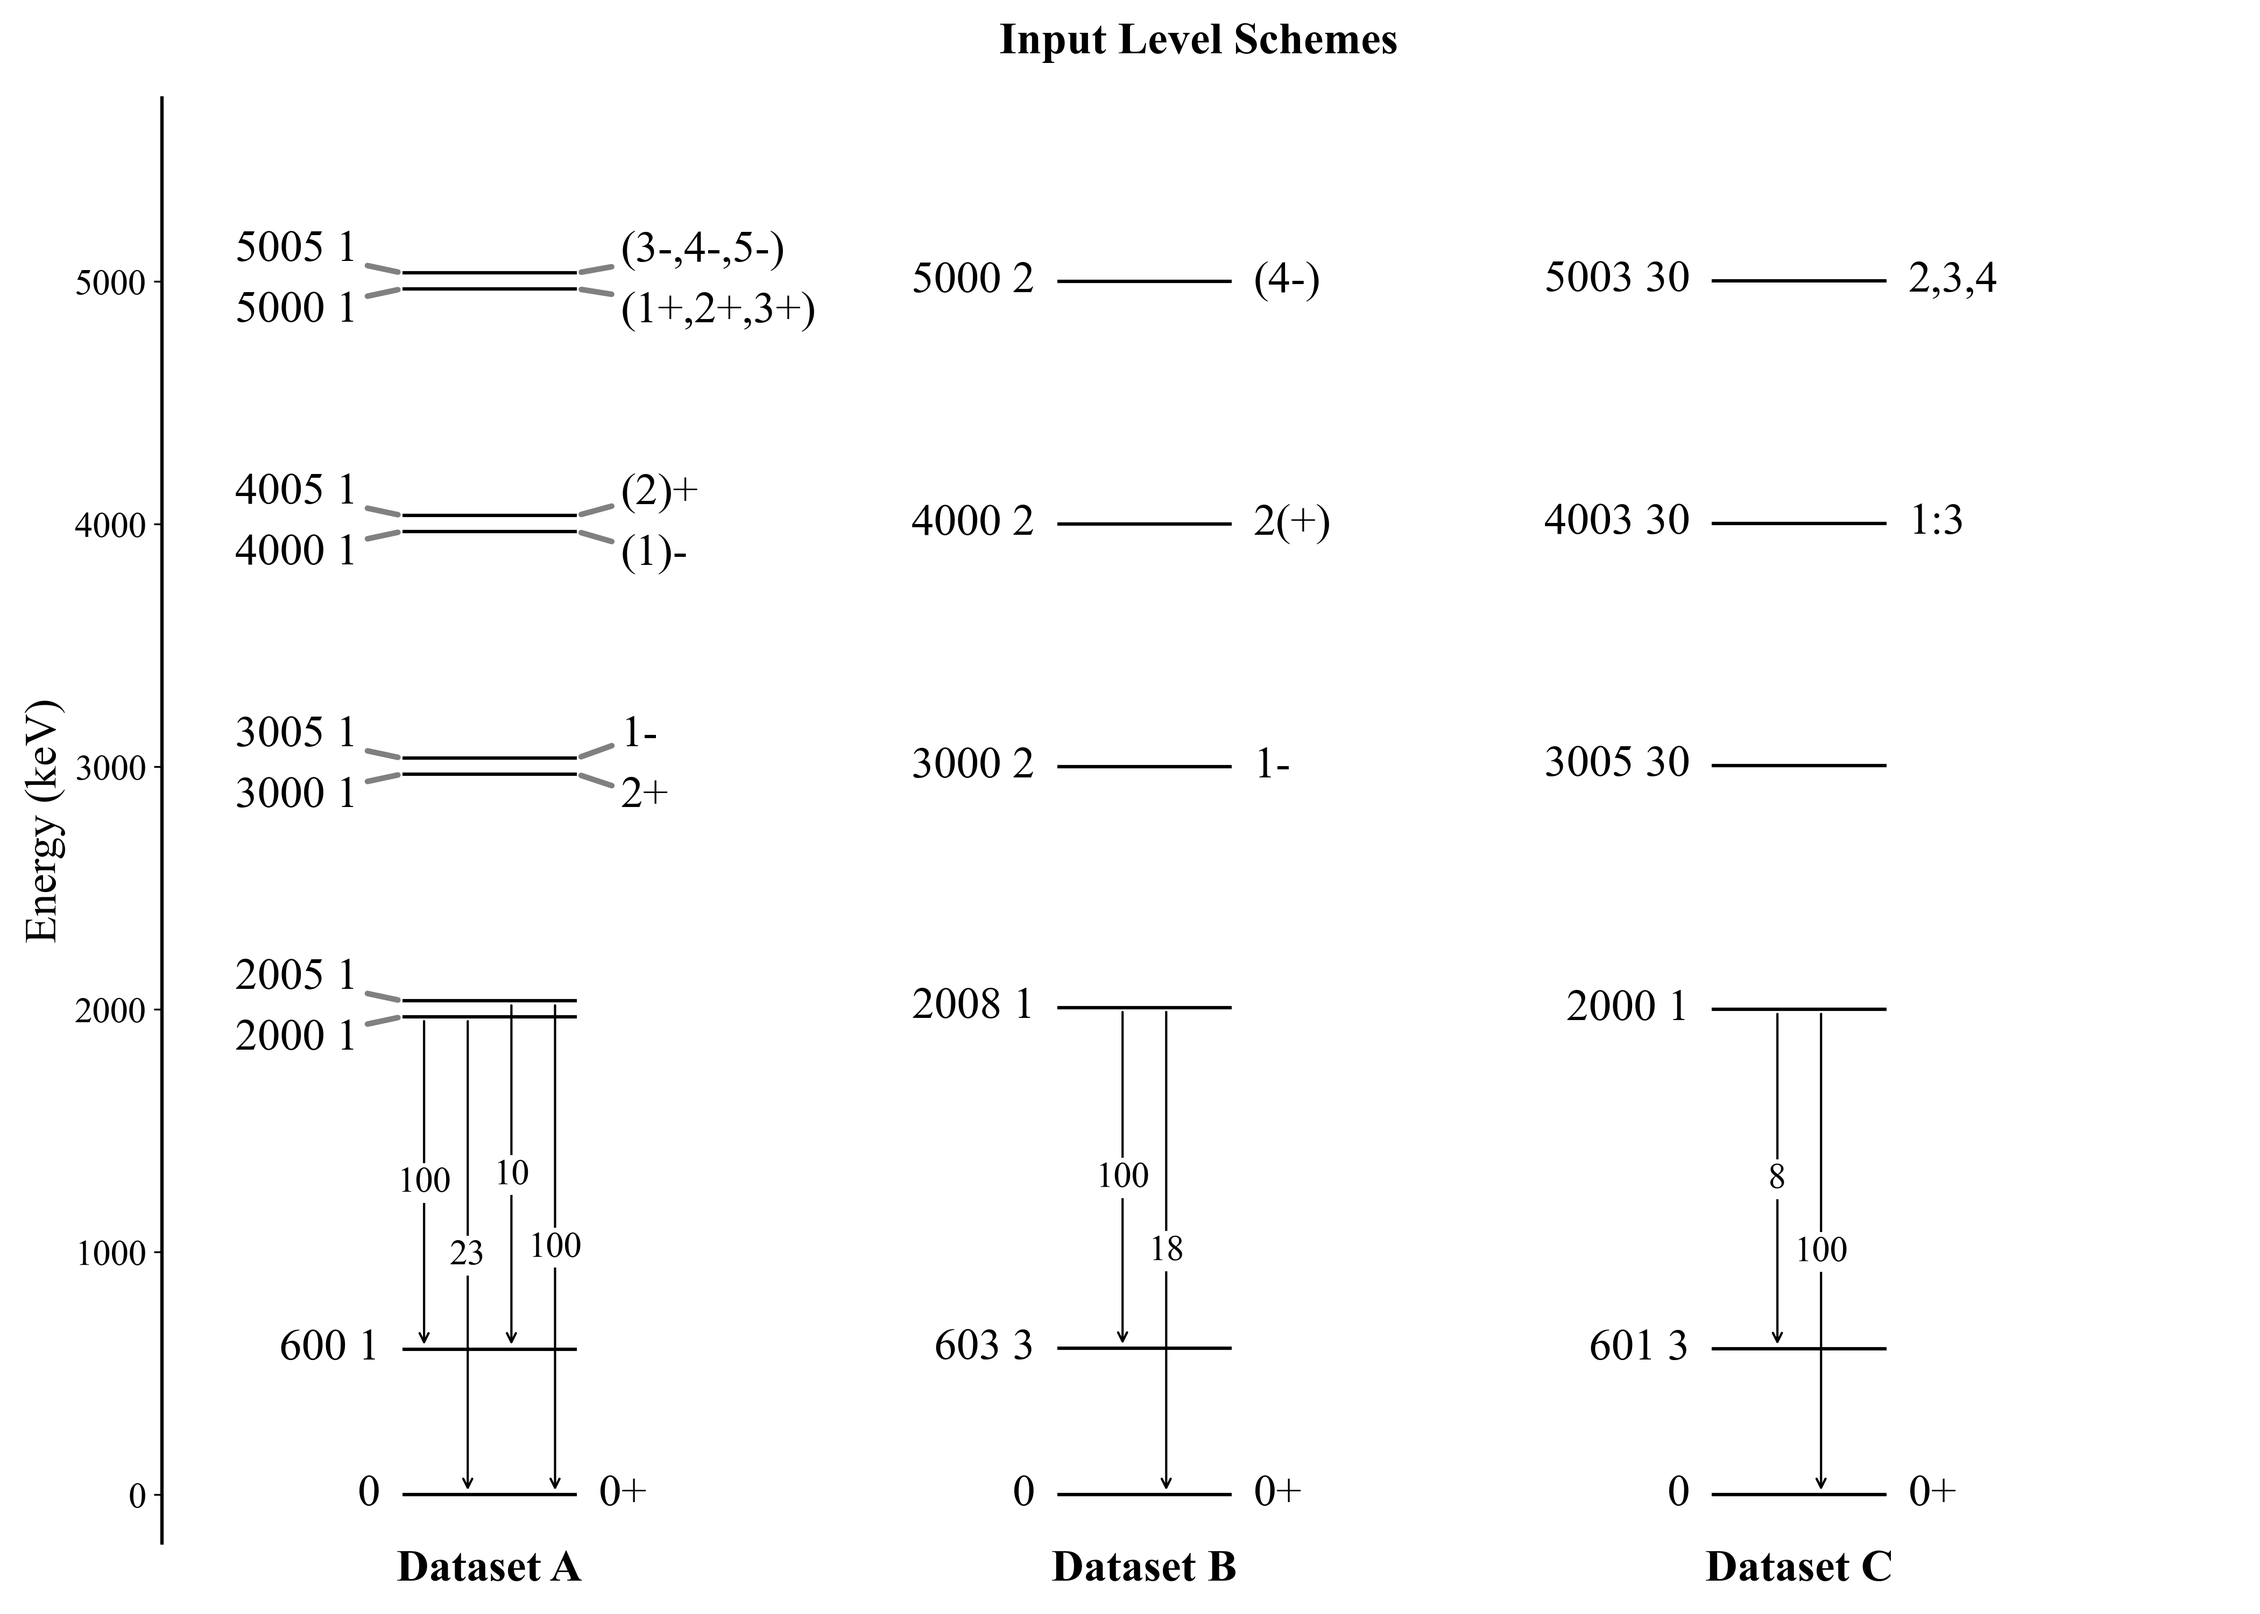
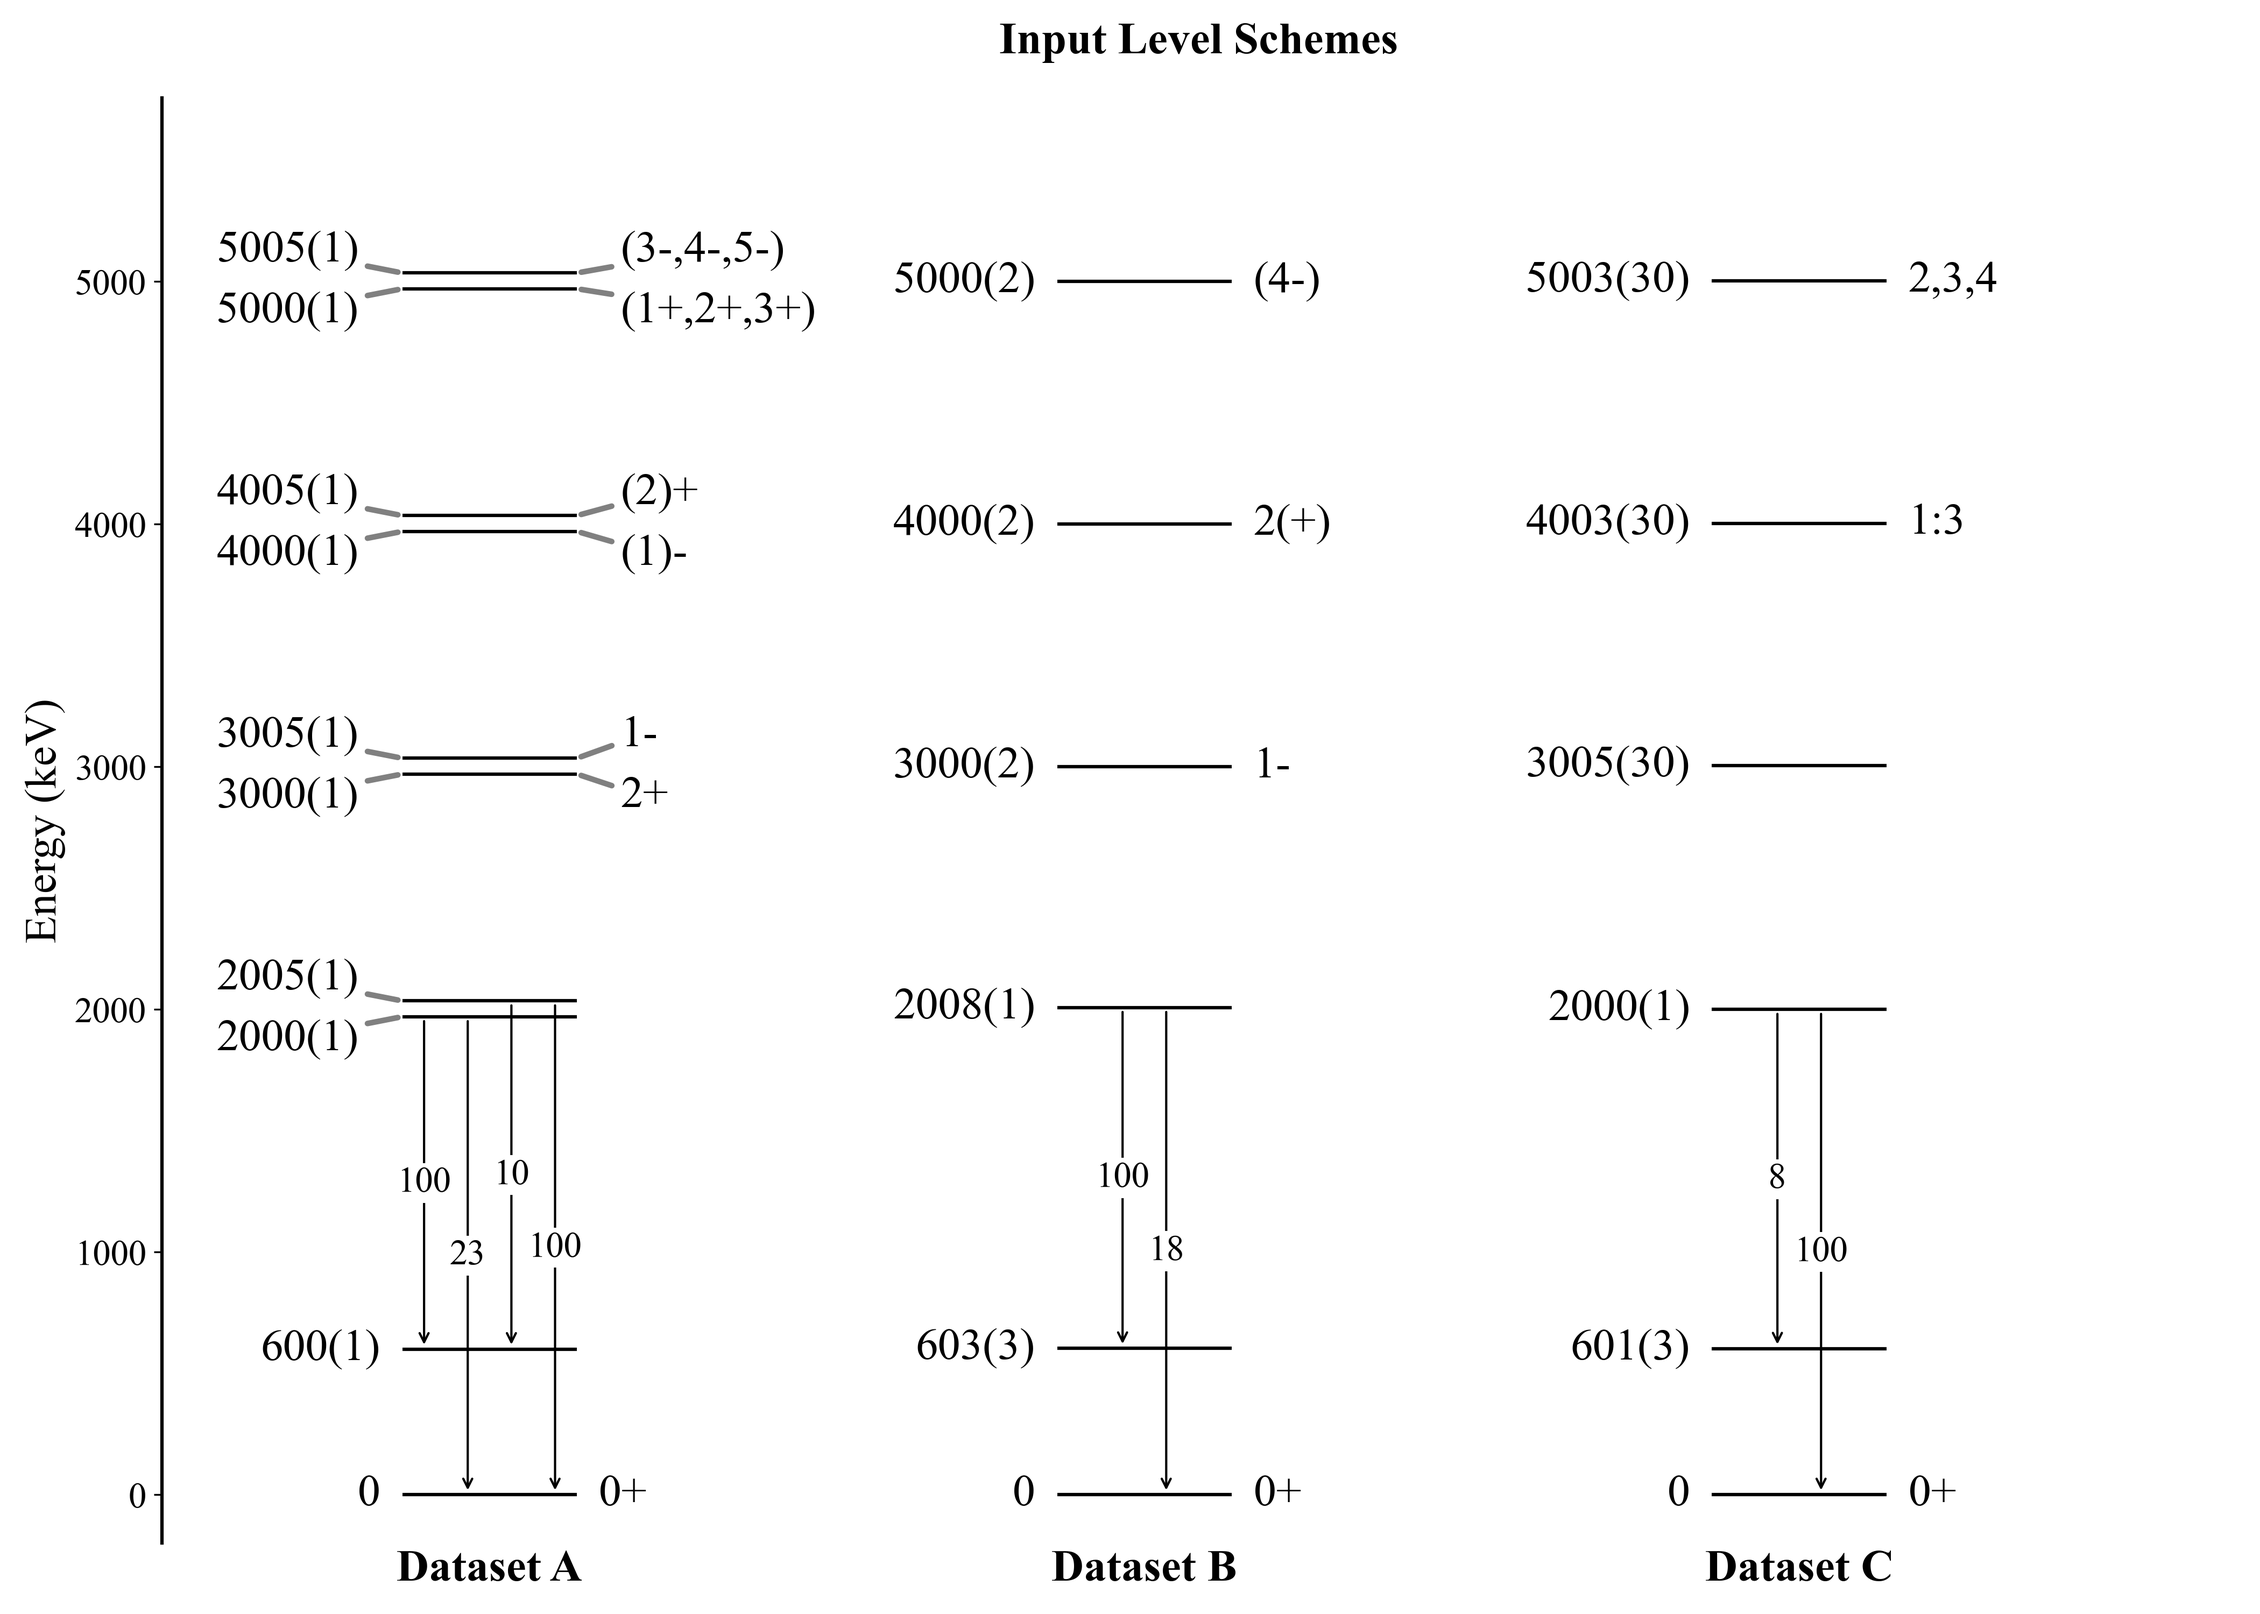
Improve level label formatting in plot_level_schemes
Updated the label formatting logic to convert NNDC space-separated energy and uncertainty values into the scientific notation format (e.g., 600(1)) for plot display. This enhances readability and consistency of level labels in the visualizer.

diff --git a/Combined_Visualizer.py b/Combined_Visualizer.py
@@ -131,9 +131,17 @@ def plot_level_schemes():
             if isinstance(level.get('spinParity'), dict):
                 spin_parity_string = level.get('spinParity', {}).get('evaluatorInput', '')
             
-            # Format energy label: use evaluatorInput if available, else raw value
-            if isinstance(level.get('energy'), dict) and level.get('energy', {}).get('evaluatorInput'):
-                label_left = level['energy']['evaluatorInput']
+            # Format level label for the reader (e.g. 600(1))
+            # The JSON property 'evaluatorInput' uses NNDC space-separated format (e.g. 600 1)
+            label_left = ""
+            if isinstance(level.get('energy'), dict):
+                eval_input = level['energy'].get('evaluatorInput', '')
+                if ' ' in eval_input:
+                    # Convert NNDC "Value Uncertainty" to scientific "Value(Uncertainty)" for the plot
+                    value_part, uncertainty_part = eval_input.split(' ', 1)
+                    label_left = f"{value_part}({uncertainty_part})"
+                else:
+                    label_left = eval_input
             else:
                 uncertainty_string = f"({int(uncertainty)})" if uncertainty is not None else ""
                 label_left = f"{int(energy_value)}{uncertainty_string}"
